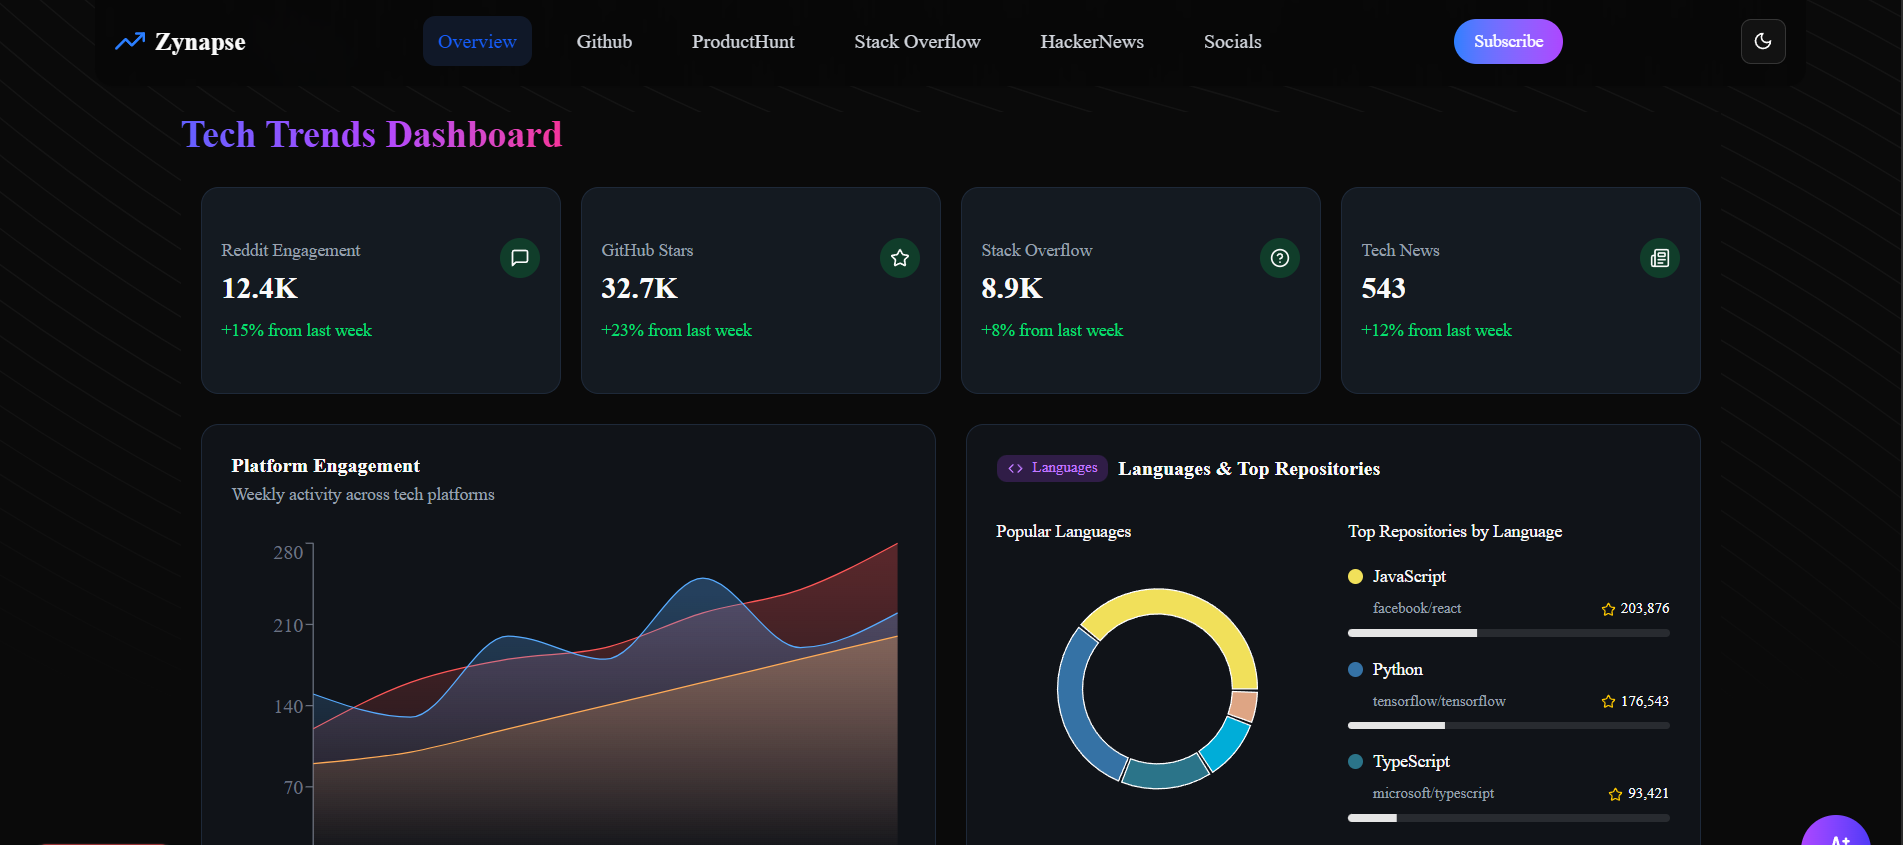
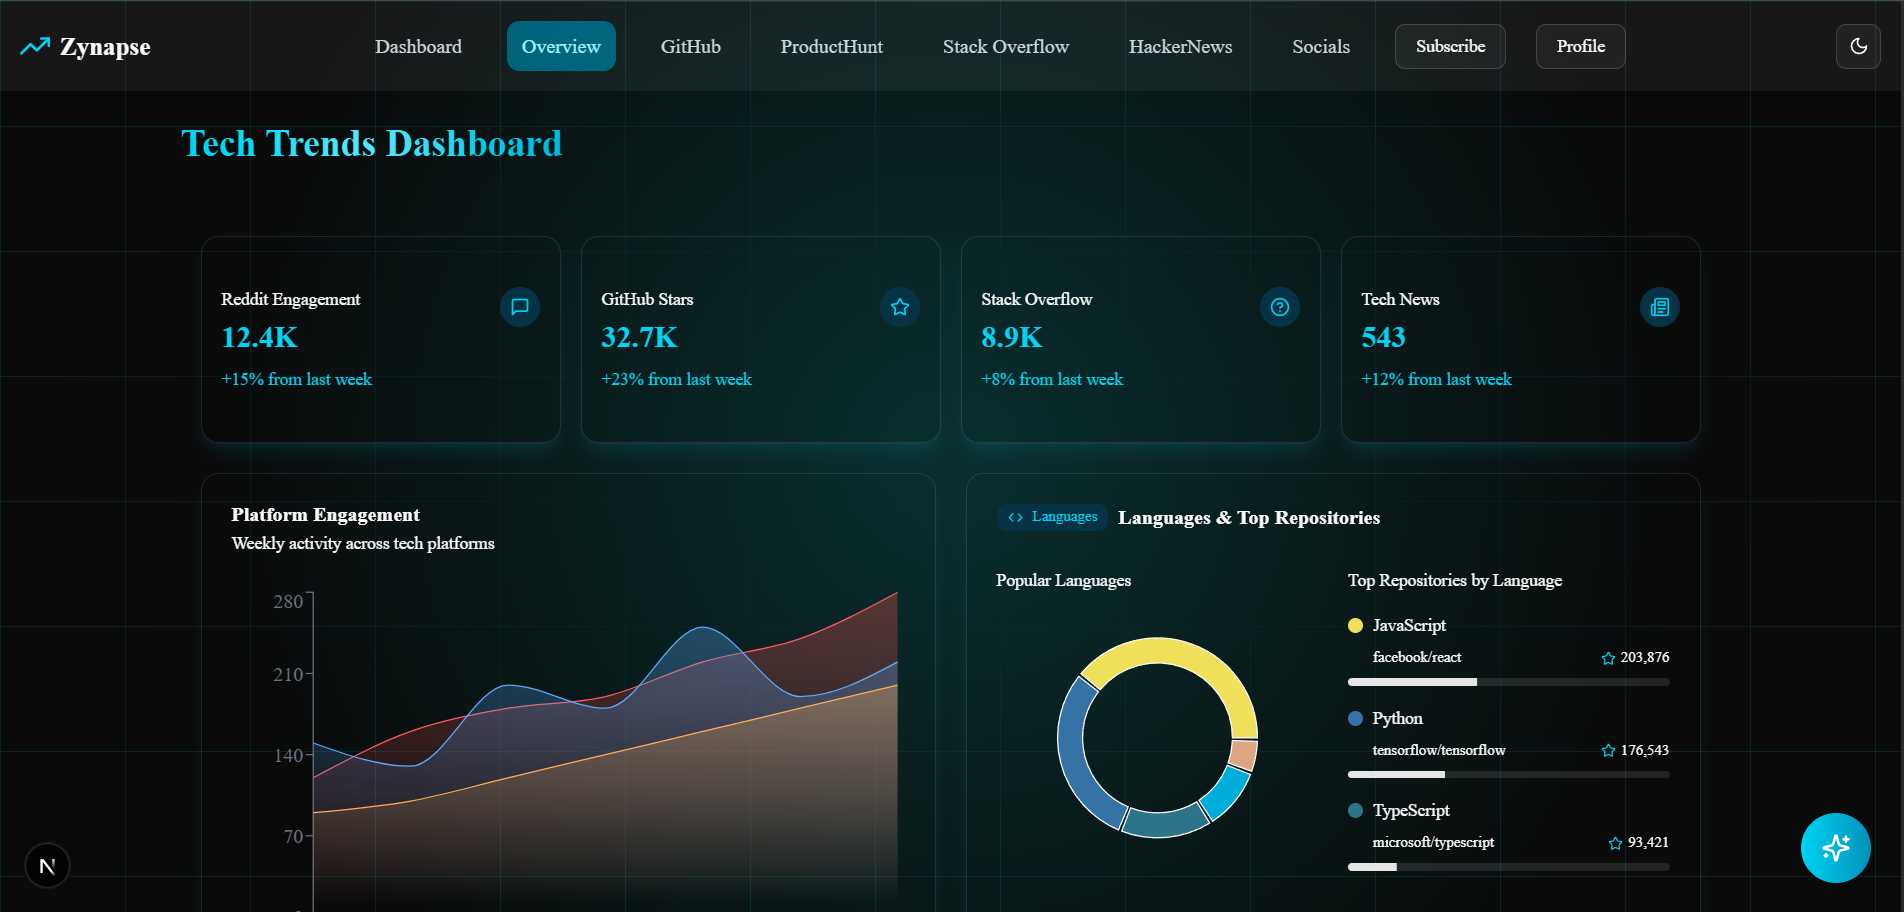
fixed theme and image

diff --git a/src/app/profile/ProfilePageUI.tsx b/src/app/profile/ProfilePageUI.tsx
@@ -61,6 +61,9 @@ export default function ProfilePageUI({ user }: { user: UserData }) {
   return (
     <div className="max-w-screen-lg mx-auto py-8 px-4">
       {/* Profile Header */}
+      <div className="absolute inset-0 bg-[radial-gradient(circle_at_center,rgba(0,255,255,0.15),transparent_70%)] dark:opacity-100 opacity-30"></div>
+      <div className="absolute inset-0 bg-[linear-gradient(to_right,var(--neondark-bg),transparent_20%,transparent_80%,var(--neondark-bg))]"></div>
+      <div className="absolute inset-0 bg-[linear-gradient(rgba(0,255,255,0.1)_1px,transparent_1px),linear-gradient(90deg,rgba(0,255,255,0.1)_1px,transparent_1px)] bg-[size:100px_100px] [mask-image:radial-gradient(ellipse_at_center,transparent_20%,black_70%)] dark:opacity-100 opacity-30"></div>
       <div className="flex flex-col items-center justify-center">
         <Avatar className="h-28 w-28 border-4 border-cyan-400">
           <AvatarImage src={image || "/placeholder.svg"} alt={name} />
